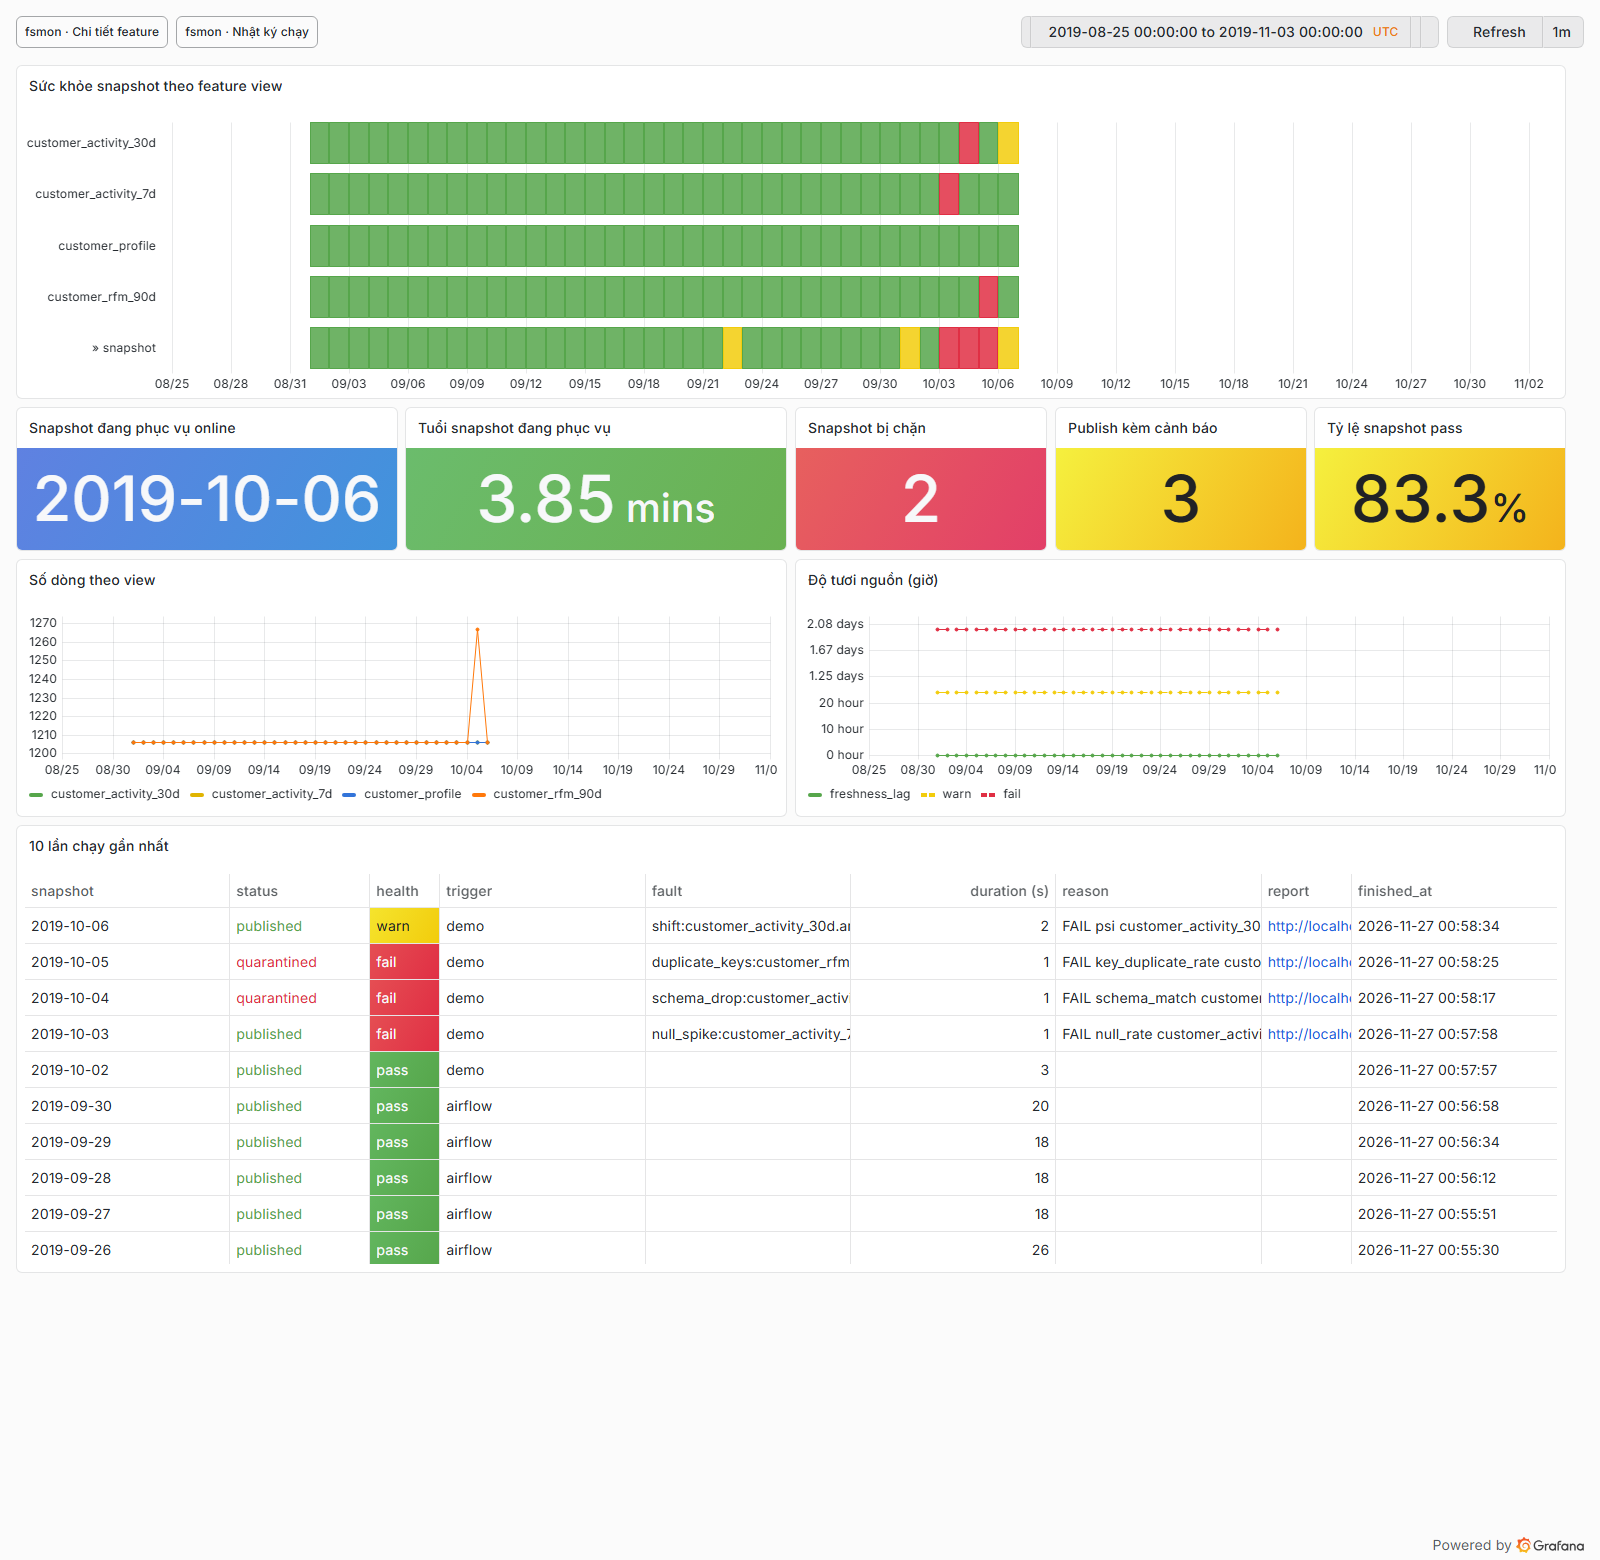
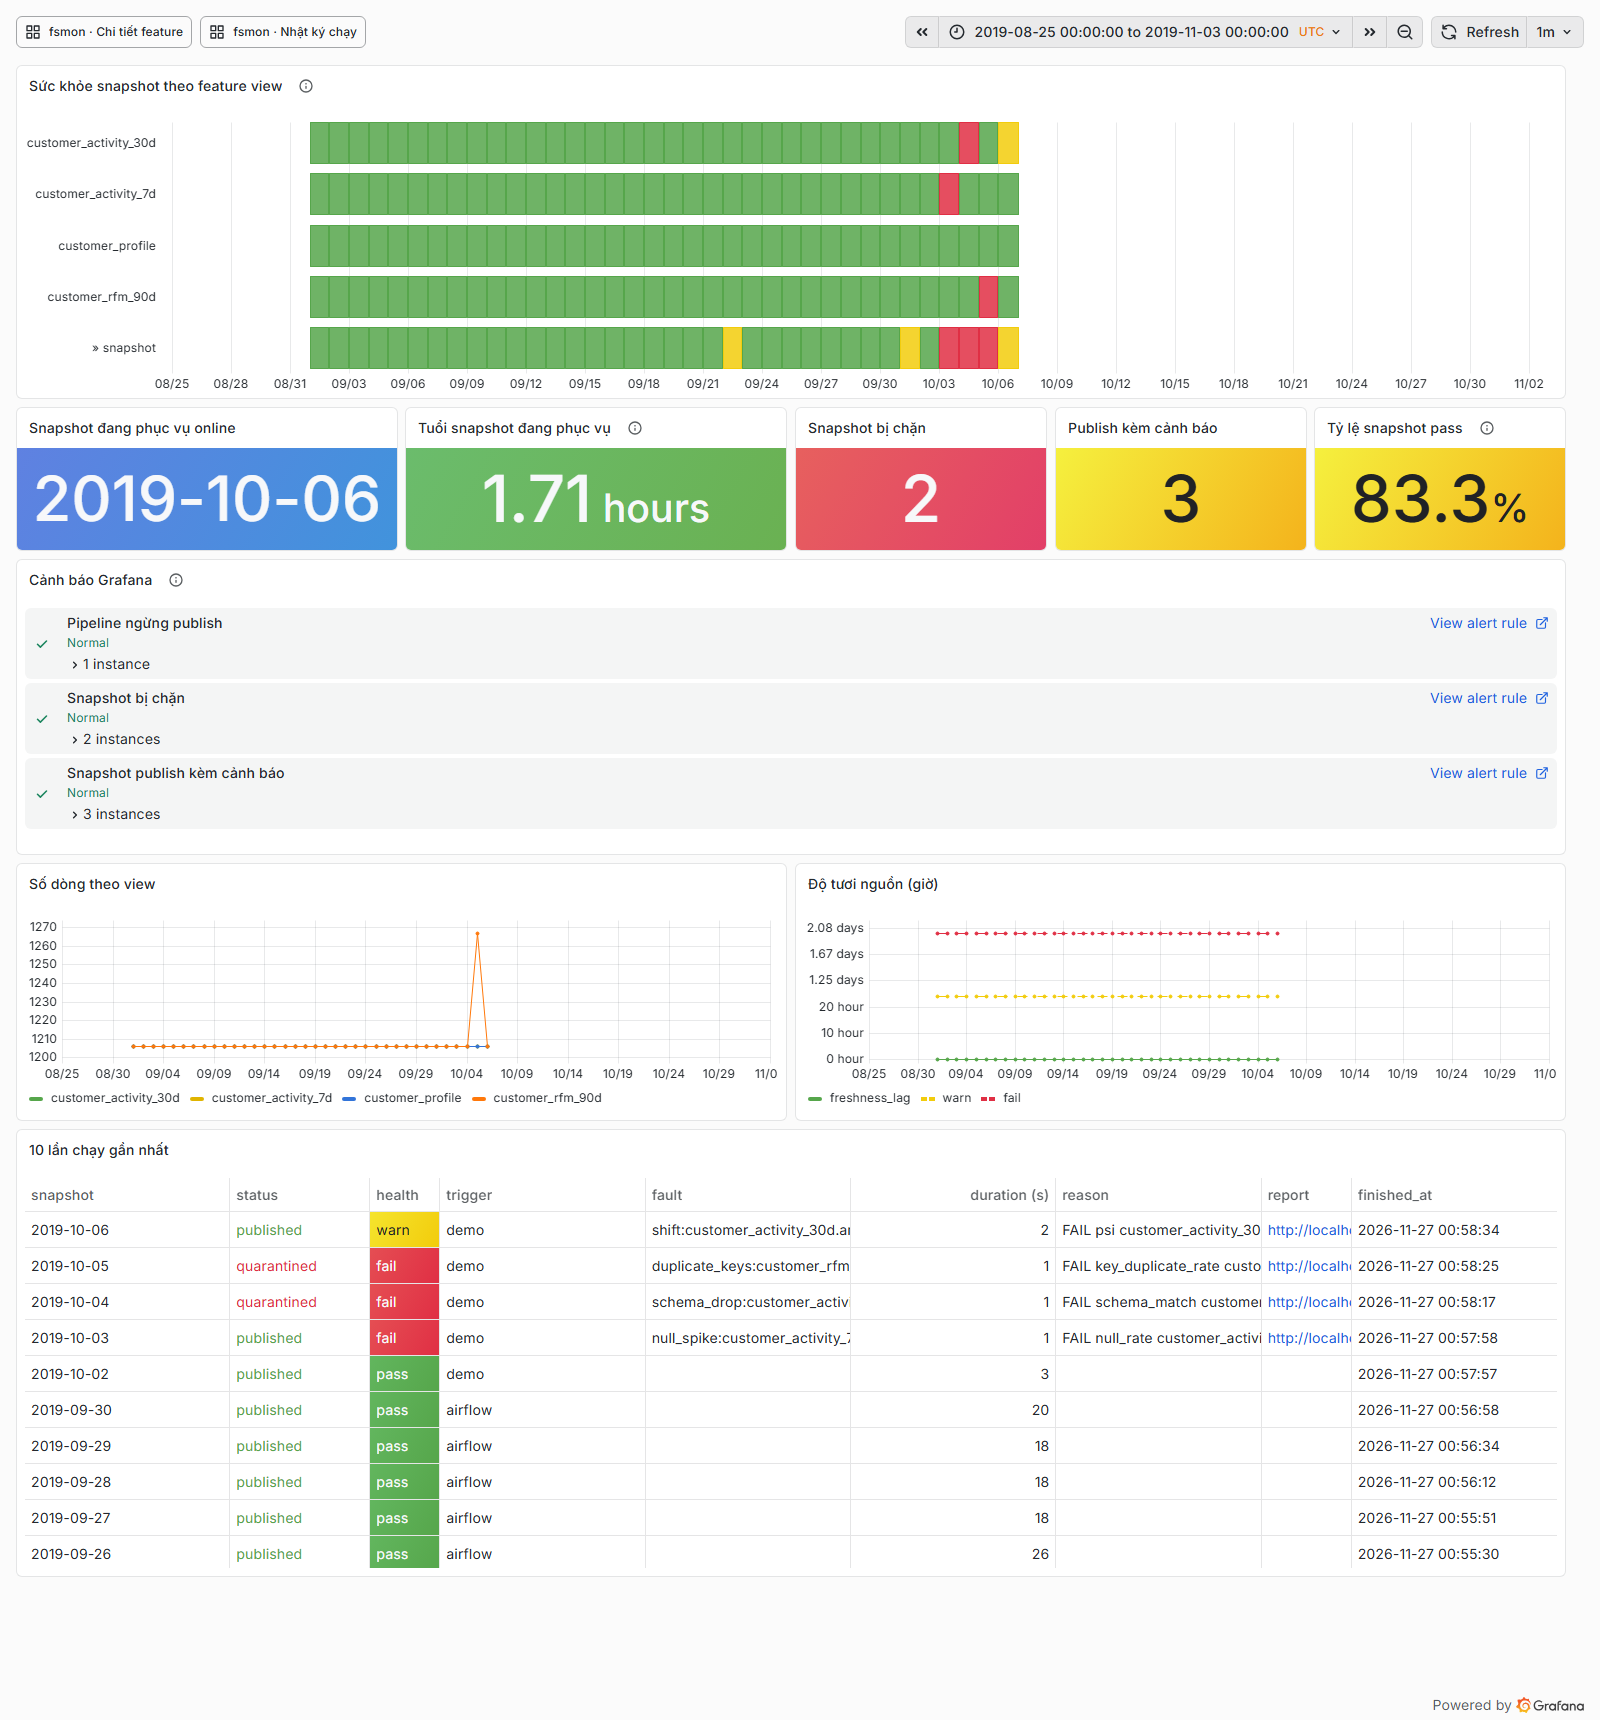
Show Grafana alert states on the overview dashboard
- Add a built-in alert list panel listing the three fsmon alert rules, so
  firing alerts are visible in Grafana without opening the webhook page
- Refresh the overview screenshot and document where to view alerts

diff --git a/grafana/build_dashboards.py b/grafana/build_dashboards.py
@@ -199,6 +199,39 @@ def dashboard(uid, title, panels, desc, templating=None, links=None):
     }
 
 
+def alert_list(grid) -> dict:
+    """Panel có sẵn của Grafana: trạng thái các alert rule của fsmon, ngay trên dashboard."""
+    x, y, w, h = grid
+    return {
+        "id": _next_id(),
+        "type": "alertlist",
+        "title": "Cảnh báo Grafana",
+        "description": "Trạng thái hiện tại của 3 alert rule (Alerting → Alert rules). "
+        "Lịch sử chuyển trạng thái: mở rule → tab History.",
+        "gridPos": {"x": x, "y": y, "w": w, "h": h},
+        "options": {
+            "viewMode": "list",
+            "groupMode": "default",
+            "groupBy": [],
+            "maxItems": 20,
+            "sortOrder": 1,
+            "dashboardAlerts": False,
+            "alertName": "",
+            "alertInstanceLabelFilter": '{team="risk-data"}',
+            "datasource": "grafana",
+            "stateFilter": {
+                "firing": True,
+                "pending": True,
+                "recovering": True,
+                "noData": True,
+                "normal": True,
+                "error": True,
+            },
+            "showInstances": False,
+        },
+    }
+
+
 # ---------------- Tổng quan ----------------
 
 
@@ -287,10 +320,11 @@ WHERE $__timeFilter(snapshot_ts)""",
                 {"color": "green", "value": 0.95},
             ],
         ),
+        alert_list((0, 13, 24, 8)),
         panel(
             "timeseries",
             "Số dòng theo view",
-            (0, 13, 12, 7),
+            (0, 21, 12, 7),
             [
                 target("""
 SELECT m.snapshot_ts AS time, m.feature_view AS metric, m.value
@@ -302,7 +336,7 @@ WHERE m.metric_name = 'row_count' AND $__timeFilter(m.snapshot_ts) ORDER BY 1"""
         panel(
             "timeseries",
             "Độ tươi nguồn (giờ)",
-            (12, 13, 12, 7),
+            (12, 21, 12, 7),
             [
                 target("""
 SELECT m.snapshot_ts AS time, max(m.value) AS freshness_lag, max(m.warn_threshold) AS warn,
@@ -325,7 +359,7 @@ WHERE m.metric_name = 'freshness_lag' AND $__timeFilter(m.snapshot_ts) GROUP BY 
         panel(
             "table",
             "10 lần chạy gần nhất",
-            (0, 20, 24, 12),
+            (0, 28, 24, 12),
             [
                 target(
                     """

diff --git a/README.md b/README.md
@@ -92,6 +92,7 @@ make airflow               # Airflow 3 trong Docker, DAG snapshot_pipeline chạ
 | Địa chỉ | Là gì |
 | --- | --- |
 | http://localhost:3000 | Grafana (admin/admin; xem ẩn danh được): Tổng quan, Chi tiết feature, Nhật ký chạy |
+| http://localhost:3000/alerting/list | Trạng thái 3 alert rule; mở một rule → tab History để xem lịch sử. Dashboard Tổng quan cũng có panel "Cảnh báo Grafana" |
 | http://localhost:8080 | Airflow |
 | http://localhost:8088/reports/ | Báo cáo Evidently HTML của snapshot warn/fail |
 | http://localhost:8088/alerts.html | Thông báo Grafana đã gửi tới contact point webhook (JSON ở `/alerts`) |
